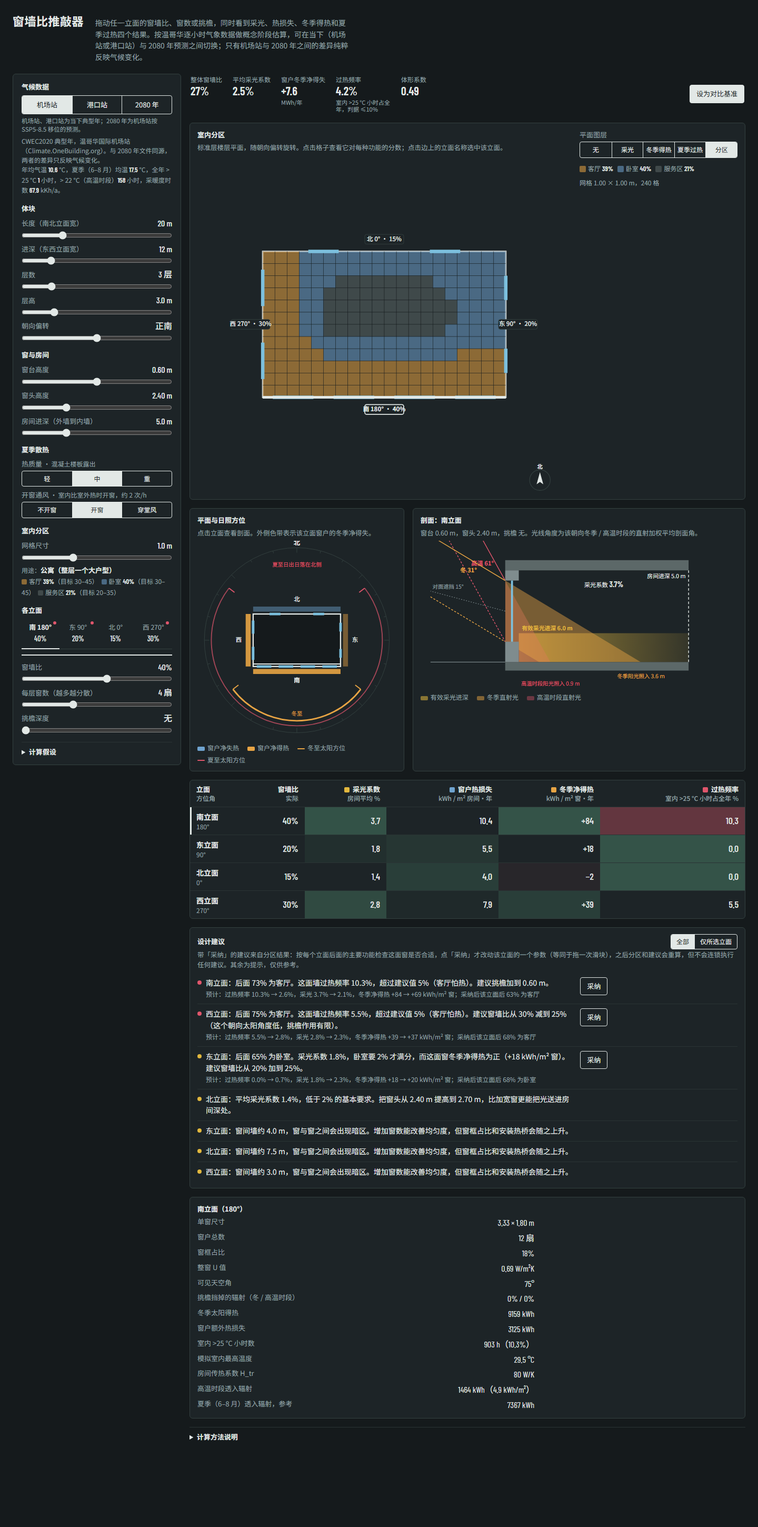
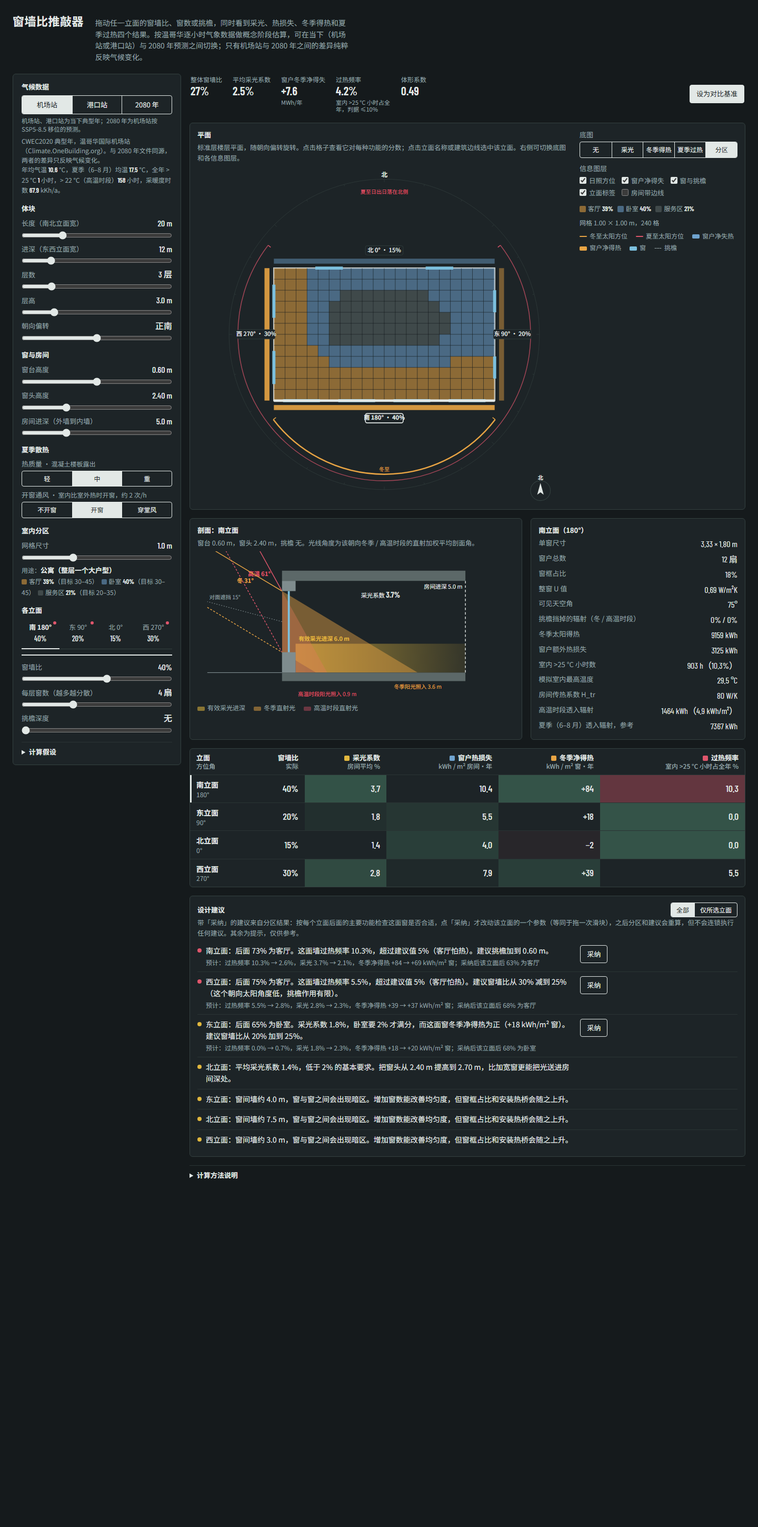
Version_05 round 2: single plan drawing with toggleable info layers
- Merge zoning panel and sun/orientation plan into one metre-based drawing (rotating group + world-frame compass, arcs, labels, north arrow)
- Info layers: sun orientation, net gain bands, windows/overhangs, facade labels, room-strip lines; native checkboxes, remembered in localStorage
- ViewBox padding shrinks when the sun layer is off; section and facade details side by side on wide screens
- 70 self-tests; calc and UI digests unchanged; screenshots refreshed

diff --git a/Passivehouse_Tool/01_Prototypes/Version_05/wwr-tool.html b/Passivehouse_Tool/01_Prototypes/Version_05/wwr-tool.html
@@ -155,9 +155,9 @@ tbody tr:last-child td{border-bottom:none}
 .zone-side .optrow{margin-top:0}
 .zone-side .gridleg{flex-wrap:wrap;margin-top:10px}
 .zone-side .cellbox{margin-top:10px}
-#zonePlan{max-height:640px;margin:0 auto}
-#zonePlan .cell{cursor:pointer}
-#zonePlan .flab{cursor:pointer}
+#plan{max-height:640px;margin:0 auto}
+#plan .cell{cursor:pointer}
+#plan .flab{cursor:pointer}
 /* 4 设计建议：标题行 + 筛选 */
 .sheet-h{display:flex;justify-content:space-between;align-items:center;gap:12px;flex-wrap:wrap}
 .sheet-h h2{margin:0}
@@ -179,6 +179,15 @@ tbody tr:last-child td{border-bottom:none}
 .methods h3{font-size:12.5px;font-weight:700;margin:10px 0 3px;color:var(--ink)}
 .methods .note{margin:0}
 .detail{max-width:640px}
+/* 第二轮：平面图合并 + 信息图层 */
+.chk{border:0;padding:0;margin:10px 0 0;display:flex;flex-wrap:wrap;gap:4px 12px;font-size:12.5px;color:var(--muted)}
+.chk legend{font-size:13px;color:var(--muted);padding:0;margin-bottom:3px}
+.chk label{white-space:nowrap;cursor:pointer}
+.chk input{accent-color:var(--ink);margin:0 5px 0 0;vertical-align:-1px}
+#infoLeg{margin-top:6px}
+#infoLeg:empty{display:none}
+#plan .hit{cursor:pointer}
+@media (min-width:1151px){.drawings{grid-template-columns:minmax(0,1.55fr) minmax(0,1fr)}}   /* 剖面 / 详情两列，窄屏仍单列 */
 </style>
 </head>
 <body>
@@ -215,32 +224,30 @@ tbody tr:last-child td{border-bottom:none}
 
     <section class="sheet zone" id="zoneSheet">
       <div class="zone-main">
-        <h2>室内分区</h2>
-        <p class="cap">标准层楼层平面，随朝向偏转旋转。点击格子查看它对每种功能的分数；点击边上的立面名称选中该立面。</p>
-        <svg id="zonePlan" viewBox="0 0 100 100" role="img" aria-label="楼层平面网格与分区"></svg>
+        <h2>平面</h2>
+        <p class="cap">标准层楼层平面，随朝向偏转旋转。点击格子查看它对每种功能的分数；点击立面名称或建筑边线选中该立面。右侧可切换底图和各信息图层。</p>
+        <svg id="plan" viewBox="0 0 100 100" role="img" aria-label="楼层平面：分区、日照方位与立面净得失"></svg>
       </div>
       <div class="zone-side" id="zoneSide">
         <div class="optrow">
-          <label id="layerLabel">平面图层</label>
+          <label id="layerLabel">底图</label>
           <div class="seg small five" role="group" aria-labelledby="layerLabel" id="layerSeg"></div>
         </div>
+        <fieldset class="chk" id="infoLayers">
+          <legend>信息图层</legend>
+          <label><input type="checkbox" data-k="sun">日照方位</label>
+          <label><input type="checkbox" data-k="net">窗户净得失</label>
+          <label><input type="checkbox" data-k="win">窗与挑檐</label>
+          <label><input type="checkbox" data-k="labels">立面标签</label>
+          <label><input type="checkbox" data-k="strip">房间带边线</label>
+        </fieldset>
         <div class="gridleg" id="gridLeg"></div>
+        <div class="legend" id="infoLeg"></div>
         <div class="cellbox" id="cellBox" hidden></div>
       </div>
     </section>
 
     <div class="drawings">
-      <section class="sheet">
-        <h2>平面与日照方位</h2>
-        <p class="cap">点击立面查看剖面。外侧色带表示该立面窗户的冬季净得失。</p>
-        <svg id="plan" viewBox="-200 -200 400 400" role="img" aria-label="建筑平面与冬夏太阳方位"></svg>
-        <div class="legend">
-          <span><i style="background:var(--cold)"></i>窗户净失热</span>
-          <span><i style="background:var(--sun)"></i>窗户净得热</span>
-          <span><i style="background:none;border-top:2px solid var(--sun);height:0"></i>冬至太阳方位</span>
-          <span><i style="background:none;border-top:2px solid var(--heat);height:0"></i>夏至太阳方位</span>
-        </div>
-      </section>
       <section class="sheet">
         <h2 id="secTitle">剖面</h2>
         <p class="cap" id="secCap"></p>
@@ -250,6 +257,10 @@ tbody tr:last-child td{border-bottom:none}
           <span><i style="background:var(--sun);opacity:.5"></i>冬季直射光</span>
           <span><i style="background:var(--heat);opacity:.4"></i>高温时段直射光</span>
         </div>
+      </section>
+      <section class="sheet">
+        <h2 id="detTitle">所选立面</h2>
+        <dl class="detail" id="detail"></dl>
       </section>
     </div>
 
@@ -276,11 +287,6 @@ tbody tr:last-child td{border-bottom:none}
       </div>
       <p class="cap">带「采纳」的建议来自分区结果：按每个立面后面的主要功能检查这面窗是否合适，点「采纳」才改动该立面的一个参数（等同于拖一次滑块），之后分区和建议会重算，但不会连锁执行任何建议。其余为提示，仅供参考。</p>
       <ul class="tips advice" id="advice"></ul>
-    </section>
-
-    <section class="sheet">
-      <h2 id="detTitle">所选立面</h2>
-      <dl class="detail" id="detail"></dl>
     </section>
 
     <details class="methods">
@@ -371,6 +377,7 @@ const S={
   clim:'apNow', GtManual:false, mass:'mid', vent:'win',
   grid:1.0, layer:'zone', cell:null, // 室内分区：网格尺寸 m、平面图层（none / DF / Wx / Hx / zone）、所选格子 {i,j}
   tipFilter:'all',                   // 设计建议筛选：all 全部 / sel 仅所选立面（Version_05）
+  info:{sun:true,net:true,win:true,labels:true,strip:false},  // 平面信息图层开关（第二轮）：日照方位 / 净得失 / 窗与挑檐 / 立面标签 / 房间带边线
   L:20, W:12, floors:3, H:3.0, rot:0,
   sill:0.6, head:2.4, depth:5,
   sel:'S',
@@ -613,7 +620,16 @@ function gridSvg(G,s){
     o+=`<rect class="cell" data-idx="${idx}" x="${((c.x-c.gx/2)*s).toFixed(2)}" y="${((c.y-c.gy/2)*s).toFixed(2)}" width="${(c.gx*s).toFixed(2)}" height="${(c.gy*s).toFixed(2)}" fill="${fill}" opacity="${a.toFixed(3)}" stroke="${sel?'var(--ink)':'var(--paper)'}" stroke-width="${sel?2:0.4}" style="cursor:pointer"/>`;});
   return o;
 }
+function updateInfoLegend(){   // 第二轮：只列出打开的信息图层
+  const I=S.info,it=[];
+  if(I.sun){it.push('<span><i style="background:none;border-top:2px solid var(--sun);height:0"></i>冬至太阳方位</span>','<span><i style="background:none;border-top:2px solid var(--heat);height:0"></i>夏至太阳方位</span>');}
+  if(I.net){it.push('<span><i style="background:var(--cold)"></i>窗户净失热</span>','<span><i style="background:var(--sun)"></i>窗户净得热</span>');}
+  if(I.win){it.push('<span><i style="background:var(--glass)"></i>窗</span>','<span><i style="background:none;border-top:1px dashed var(--muted);height:0"></i>挑檐</span>');}
+  if(I.strip){it.push('<span><i style="background:none;border-top:1px dashed var(--ink);height:0"></i>房间带边线（进深 '+f(S.depth,1)+' m）</span>');}
+  document.getElementById('infoLeg').innerHTML=it.join('');
+}
 function updateGridLegend(G){
+  updateInfoLegend();
   const el=document.getElementById('gridLeg'), Lr=LAYERS[S.layer];
   if(!Lr||!Lr.key||!G){el.innerHTML='';return;}
   const tail=`<span>网格 ${f(G.gx,2)} × ${f(G.gy,2)} m，${G.cells.length} 格</span>`;
@@ -634,8 +650,15 @@ function buildZoning(){
   const info=document.createElement('p');info.className='zoneinfo';info.id='zoneInfo';host.appendChild(info);
   // 设计建议筛选（Version_05）
   document.querySelectorAll('#tipFilter button').forEach(b=>b.addEventListener('click',()=>{S.tipFilter=b.dataset.v;render();}));
+  // 信息图层复选框（第二轮）：原生复选框，Tab + 空格可用；状态记在浏览器本地（只记开关，不记参数）
+  loadInfo();
+  document.querySelectorAll('#infoLayers input').forEach(i=>i.addEventListener('change',()=>{S.info[i.dataset.k]=i.checked;saveInfo();render();}));
 }
 function updateTipFilter(){document.querySelectorAll('#tipFilter button').forEach(b=>{const on=b.dataset.v===S.tipFilter;b.classList.toggle('on',on);b.setAttribute('aria-checked',on);b.tabIndex=on?0:-1;});}
+const INFO_KEY='wwr-tool.info.v1';
+function loadInfo(){try{const v=JSON.parse(localStorage.getItem(INFO_KEY)||'null');if(v&&typeof v==='object')Object.keys(S.info).forEach(k=>{if(typeof v[k]==='boolean')S.info[k]=v[k];});}catch(e){}}
+function saveInfo(){try{localStorage.setItem(INFO_KEY,JSON.stringify(S.info));}catch(e){}}
+function updateInfo(){document.querySelectorAll('#infoLayers input').forEach(i=>{i.checked=!!S.info[i.dataset.k];});}
 function updateZoning(){
   document.querySelectorAll('#layerSeg button').forEach(b=>{const on=b.dataset.v===S.layer;b.classList.toggle('on',on);b.setAttribute('aria-pressed',on);});
   const info=document.getElementById('zoneInfo');
@@ -990,73 +1013,66 @@ function renderDetail(R){
 // ---------- Plan ----------
 function netClass(r){if(r.netPer==null)return null;const v=r.netPer;
   if(v<-20)return['var(--cold)',.9];if(v<0)return['var(--cold)',.45];if(v<20)return['var(--sun)',.45];return['var(--sun)',.9];}
+// ---------- 平面（第二轮：一张图 + 信息图层）----------
+// 一个米制坐标系：建筑与方格、窗线、挑檐轮廓、净得失色带、房间带边线、立面点击区都在旋转组里随朝向转；
+// 罗盘环、日照弧线、立面标签（位置随转、文字水平）、指北针在世界坐标系里。每个信息图层按 S.info 开关，关掉就不输出对应元素。
+// viewBox 按打开的图层定留白：日照方位开 3.6 m（放罗盘环与文字），关 2.2 m（图自动放大）。只读 GRID / ZONES / R / S，不做任何计算。
 function renderPlan(R){
-  const svg=document.getElementById('plan');
-  const s=205/Math.hypot(S.L,S.W), w=S.L*s, h=S.W*s;
-  const pt=(a,r)=>[r*Math.sin(rad(a)),-r*Math.cos(rad(a))];
-  const arc=(a1,a2,r)=>{const[x1,y1]=pt(a1,r),[x2,y2]=pt(a2,r);return `M${x1.toFixed(1)},${y1.toFixed(1)} A${r},${r} 0 ${(a2-a1)>180?1:0} 1 ${x2.toFixed(1)},${y2.toFixed(1)}`;};
-  const cosA=Math.sin(rad(23.44))/Math.cos(rad(CL().lat)), aS=Math.acos(clamp(cosA,-1,1))*180/Math.PI, aW=180-aS; // sunrise azimuth at summer / winter solstice
-  let g=`<circle r="186" fill="none" stroke="var(--line)" stroke-width="1"/>`;
-  for(let a=0;a<360;a+=15){const[x1,y1]=pt(a,186),[x2,y2]=pt(a,a%45?181:176);g+=`<line x1="${x1}" y1="${y1}" x2="${x2}" y2="${y2}" stroke="var(--line)"/>`;}
-  g+=`<text x="0" y="-190" text-anchor="middle" font-size="13" font-weight="700" fill="var(--ink)" dy="-2">北</text>`;
-  g+=`<path d="${arc(aS,360-aS,172)}" fill="none" stroke="var(--heat)" stroke-width="2" opacity=".7"/>`;
-  g+=`<path d="${arc(aW,360-aW,162)}" fill="none" stroke="var(--sun)" stroke-width="3"/>`;
-  [[aS,'var(--heat)',172],[360-aS,'var(--heat)',172],[aW,'var(--sun)',162],[360-aW,'var(--sun)',162]].forEach(([a,c,r])=>{const[x,y]=pt(a,r),[x2,y2]=pt(a,r-14);g+=`<line x1="${x}" y1="${y}" x2="${x2}" y2="${y2}" stroke="${c}" stroke-width="2"/>`;});
-  {const[x,y]=pt(180,148);g+=`<text x="${x}" y="${y}" text-anchor="middle" font-size="11" fill="var(--sun)" dy="4">冬至</text>`;
-   const[x2,y2]=pt(0,158);g+=`<text x="${x2}" y="${y2}" text-anchor="middle" font-size="11" fill="var(--heat)" dy="10">夏至日出日落在北侧</text>`;}
-  const E={S:[[-w/2,h/2],[w/2,h/2],[0,1]],N:[[w/2,-h/2],[-w/2,-h/2],[0,-1]],E:[[w/2,h/2],[w/2,-h/2],[1,0]],W:[[-w/2,-h/2],[-w/2,h/2],[-1,0]]};
-  let b=`<rect x="${-w/2}" y="${-h/2}" width="${w}" height="${h}" fill="var(--paper)" stroke="var(--ink)" stroke-width="2.5"/>`;
-  // Version_05：方格图层移到独立的「室内分区」面板（renderZonePlan），这里只保留日照方位与立面净得失
-  const labels=[];
-  KEYS.forEach(k=>{const r=R[k],[p0,p1,nv]=E[k],F=r.F;
-    const L=Math.hypot(p1[0]-p0[0],p1[1]-p0[1]),ux=(p1[0]-p0[0])/L,uy=(p1[1]-p0[1])/L;
-    const ohp=F.oh>0?Math.max(3,F.oh*s):0, b0=ohp+5, b1=b0+10;
-    if(F.oh>0) b+=`<polygon points="${p0[0]},${p0[1]} ${p1[0]},${p1[1]} ${p1[0]+nv[0]*ohp},${p1[1]+nv[1]*ohp} ${p0[0]+nv[0]*ohp},${p0[1]+nv[1]*ohp}" fill="none" stroke="var(--muted)" stroke-dasharray="3 2"/>`;
-    const nc=netClass(r);
-    if(nc) b+=`<polygon points="${p0[0]+nv[0]*b0},${p0[1]+nv[1]*b0} ${p1[0]+nv[0]*b0},${p1[1]+nv[1]*b0} ${p1[0]+nv[0]*b1},${p1[1]+nv[1]*b1} ${p0[0]+nv[0]*b1},${p0[1]+nv[1]*b1}" fill="${nc[0]}" opacity="${nc[1]}"/>`;
-    if(r.has){for(let i=0;i<r.n;i++){const c=(i+.5)/r.n*L,hw=r.wi*s/2*(r.len/r.len);const sx=p0[0]+ux*(c-hw),sy=p0[1]+uy*(c-hw),ex=p0[0]+ux*(c+hw),ey=p0[1]+uy*(c+hw);
-      b+=`<line x1="${sx}" y1="${sy}" x2="${ex}" y2="${ey}" stroke="var(--glass)" stroke-width="5"/>`;}}
-    if(k===S.sel) b+=`<line x1="${p0[0]}" y1="${p0[1]}" x2="${p1[0]}" y2="${p1[1]}" stroke="var(--ink)" stroke-width="2" transform="translate(${-nv[0]*5},${-nv[1]*5})"/>`;
-    // 立面点击区向外偏移 10，留出室内格子的点击空间（Version_03）
-    b+=`<line class="hit" data-k="${k}" tabindex="0" role="button" aria-label="选择${facName(k)}" x1="${p0[0]}" y1="${p0[1]}" x2="${p1[0]}" y2="${p1[1]}" stroke="transparent" stroke-width="26" style="cursor:pointer" transform="translate(${nv[0]*10},${nv[1]*10})"/>`;
-    const mx=(p0[0]+p1[0])/2+nv[0]*(b1+14),my=(p0[1]+p1[1])/2+nv[1]*(b1+14);labels.push([k,mx,my]);
-  });
-  let lab='';const cr=Math.cos(rad(S.rot)),sr=Math.sin(rad(S.rot));
-  labels.forEach(([k,x,y])=>{const X=x*cr-y*sr,Y=x*sr+y*cr;lab+=`<text x="${X}" y="${Y}" text-anchor="middle" dominant-baseline="middle" font-size="12" font-weight="${k===S.sel?700:500}" fill="var(--ink)" pointer-events="none">${dirName(facAz(k))}</text>`;});
-  svg.innerHTML=g+`<g transform="rotate(${S.rot})">${b}</g>`+lab;
-  svg.querySelectorAll('.hit').forEach(el=>{const k=el.getAttribute('data-k');el.addEventListener('click',()=>{S.sel=k;render();});el.addEventListener('keydown',e=>{if(e.key==='Enter'||e.key===' '){e.preventDefault();S.sel=k;render();}});});
-}
-
-// ---------- 室内分区面板（Version_05）----------
-// 独立的大比例楼层平面：建筑随朝向旋转（与日照图一致），viewBox 按对角线留足空间；四边外侧标注立面名称与方位角（可点击选中立面）；
-// 方格着色沿用 gridSvg()；右下角小指北针固定朝上（建筑转、北不转）。只读 GRID / ZONES / S，不做任何计算。
-function renderZonePlan(R){
-  const svg=document.getElementById('zonePlan'); if(!GRID){svg.innerHTML='';return;}
-  const diag=Math.hypot(S.L,S.W), pad=2.2, V=diag+2*pad, s=1;   // 单位：m
+  const svg=document.getElementById('plan'); if(!GRID){svg.innerHTML='';return;}
+  const I=S.info, w=S.L, h=S.W, R0=Math.hypot(w,h)/2;
+  const pad=I.sun?3.6:2.2, V=2*(R0+pad);
   svg.setAttribute('viewBox',`${(-V/2).toFixed(2)} ${(-V/2).toFixed(2)} ${V.toFixed(2)} ${V.toFixed(2)}`);
-  const w=S.L, h=S.W;
+  const pxPerM=(svg.clientWidth||700)/V, fs=Math.max(0.5,12/pxPerM);   // 文字约 12 px
+  const pt=(a,r)=>[r*Math.sin(rad(a)),-r*Math.cos(rad(a))];
+  const n2=x=>x.toFixed(2);
+  // ---- 世界坐标：日照方位 ----
+  let g='';
+  if(I.sun){
+    const arc=(a1,a2,r)=>{const[x1,y1]=pt(a1,r),[x2,y2]=pt(a2,r);return `M${n2(x1)},${n2(y1)} A${n2(r)},${n2(r)} 0 ${(a2-a1)>180?1:0} 1 ${n2(x2)},${n2(y2)}`;};
+    const cosA=Math.sin(rad(23.44))/Math.cos(rad(CL().lat)), aS=Math.acos(clamp(cosA,-1,1))*180/Math.PI, aW=180-aS; // 夏至 / 冬至日出方位角
+    const rR=R0+2.4, rS=R0+1.6, rW=R0+1.0;
+    g+=`<g class="sun"><circle r="${n2(rR)}" fill="none" stroke="var(--line)" stroke-width="${n2(fs*0.06)}"/>`;
+    for(let a=0;a<360;a+=15){const[x1,y1]=pt(a,rR),[x2,y2]=pt(a,rR-(a%45?0.3:0.5)*fs);g+=`<line x1="${n2(x1)}" y1="${n2(y1)}" x2="${n2(x2)}" y2="${n2(y2)}" stroke="var(--line)" stroke-width="${n2(fs*0.06)}"/>`;}
+    g+=`<text x="0" y="${n2(-rR-fs*0.35)}" text-anchor="middle" font-size="${n2(fs*1.05)}" font-weight="700" fill="var(--ink)">北</text>`;
+    g+=`<path d="${arc(aS,360-aS,rS)}" fill="none" stroke="var(--heat)" stroke-width="${n2(fs*0.14)}" opacity=".7"/>`;
+    g+=`<path d="${arc(aW,360-aW,rW)}" fill="none" stroke="var(--sun)" stroke-width="${n2(fs*0.22)}"/>`;
+    [[aS,'var(--heat)',rS],[360-aS,'var(--heat)',rS],[aW,'var(--sun)',rW],[360-aW,'var(--sun)',rW]].forEach(([a,c,r])=>{const[x,y]=pt(a,r),[x2,y2]=pt(a,r-0.55*fs);g+=`<line x1="${n2(x)}" y1="${n2(y)}" x2="${n2(x2)}" y2="${n2(y2)}" stroke="${c}" stroke-width="${n2(fs*0.14)}"/>`;});
+    {const[x,y]=pt(180,rW-0.7*fs);g+=`<text x="${n2(x)}" y="${n2(y)}" text-anchor="middle" dominant-baseline="middle" font-size="${n2(fs*0.9)}" fill="var(--sun)">冬至</text>`;
+     const[x2,y2]=pt(0,rS-0.75*fs);g+=`<text x="${n2(x2)}" y="${n2(y2)}" text-anchor="middle" dominant-baseline="middle" font-size="${n2(fs*0.9)}" fill="var(--heat)">夏至日出日落在北侧</text>`;}
+    g+='</g>';
+  }
+  // ---- 旋转组：建筑、方格、房间带边线、挑檐轮廓、净得失色带、窗线、所选立面、点击区 ----
   let b=`<rect x="${-w/2}" y="${-h/2}" width="${w}" height="${h}" fill="var(--panel)" stroke="var(--ink)" stroke-width="0.12"/>`;
-  b+=gridSvg(GRID,s).replace(/stroke-width="[^"]*"/g,m=>m.replace(/[\d.]+/,x=>(+x*0.06).toFixed(3)));
-  // 窗线（与日照图相同的几何）
+  b+=gridSvg(GRID,1).replace(/stroke-width="[^"]*"/g,m=>m.replace(/[\d.]+/,x=>(+x*0.06).toFixed(3)));
+  if(I.strip){const D=S.depth,sw=n2(fs*0.07);b+='<g class="strip">';
+    if(D<h)b+=`<line x1="${-w/2}" y1="${n2(h/2-D)}" x2="${w/2}" y2="${n2(h/2-D)}" stroke="var(--ink)" stroke-width="${sw}" stroke-dasharray="0.5 0.35" opacity=".8"/><line x1="${-w/2}" y1="${n2(-h/2+D)}" x2="${w/2}" y2="${n2(-h/2+D)}" stroke="var(--ink)" stroke-width="${sw}" stroke-dasharray="0.5 0.35" opacity=".8"/>`;
+    if(D<w)b+=`<line x1="${n2(w/2-D)}" y1="${-h/2}" x2="${n2(w/2-D)}" y2="${h/2}" stroke="var(--ink)" stroke-width="${sw}" stroke-dasharray="0.5 0.35" opacity=".8"/><line x1="${n2(-w/2+D)}" y1="${-h/2}" x2="${n2(-w/2+D)}" y2="${h/2}" stroke="var(--ink)" stroke-width="${sw}" stroke-dasharray="0.5 0.35" opacity=".8"/>`;
+    b+='</g>';}
   const E={S:[[-w/2,h/2],[w/2,h/2],[0,1]],N:[[w/2,-h/2],[-w/2,-h/2],[0,-1]],E:[[w/2,h/2],[w/2,-h/2],[1,0]],W:[[-w/2,-h/2],[-w/2,h/2],[-1,0]]};
   const labels=[];
-  KEYS.forEach(k=>{const r=R[k],[p0,p1,nv]=E[k];const L=Math.hypot(p1[0]-p0[0],p1[1]-p0[1]),ux=(p1[0]-p0[0])/L,uy=(p1[1]-p0[1])/L;
-    if(r.has){for(let i=0;i<r.n;i++){const c=(i+.5)/r.n*L,hw=r.wi/2;const sx=p0[0]+ux*(c-hw),sy=p0[1]+uy*(c-hw),ex=p0[0]+ux*(c+hw),ey=p0[1]+uy*(c+hw);
-      b+=`<line x1="${sx.toFixed(2)}" y1="${sy.toFixed(2)}" x2="${ex.toFixed(2)}" y2="${ey.toFixed(2)}" stroke="var(--glass)" stroke-width="0.28"/>`;}}
+  KEYS.forEach(k=>{const r=R[k],[p0,p1,nv]=E[k],F=r.F;const L=Math.hypot(p1[0]-p0[0],p1[1]-p0[1]),ux=(p1[0]-p0[0])/L,uy=(p1[1]-p0[1])/L;
+    const ohp=F.oh>0?F.oh:0, b0=ohp+0.4, b1=b0+0.45;
+    if(I.win&&F.oh>0) b+=`<polygon class="win" points="${n2(p0[0])},${n2(p0[1])} ${n2(p1[0])},${n2(p1[1])} ${n2(p1[0]+nv[0]*ohp)},${n2(p1[1]+nv[1]*ohp)} ${n2(p0[0]+nv[0]*ohp)},${n2(p0[1]+nv[1]*ohp)}" fill="none" stroke="var(--muted)" stroke-width="${n2(fs*0.06)}" stroke-dasharray="0.3 0.2"/>`;
+    const nc=netClass(r);
+    if(I.net&&nc) b+=`<polygon class="net" points="${n2(p0[0]+nv[0]*b0)},${n2(p0[1]+nv[1]*b0)} ${n2(p1[0]+nv[0]*b0)},${n2(p1[1]+nv[1]*b0)} ${n2(p1[0]+nv[0]*b1)},${n2(p1[1]+nv[1]*b1)} ${n2(p0[0]+nv[0]*b1)},${n2(p0[1]+nv[1]*b1)}" fill="${nc[0]}" opacity="${nc[1]}"/>`;
+    if(I.win&&r.has){for(let i=0;i<r.n;i++){const c=(i+.5)/r.n*L,hw=r.wi/2;const sx=p0[0]+ux*(c-hw),sy=p0[1]+uy*(c-hw),ex=p0[0]+ux*(c+hw),ey=p0[1]+uy*(c+hw);
+      b+=`<line class="win" x1="${n2(sx)}" y1="${n2(sy)}" x2="${n2(ex)}" y2="${n2(ey)}" stroke="var(--glass)" stroke-width="0.28"/>`;}}
     if(k===S.sel) b+=`<line x1="${p0[0]}" y1="${p0[1]}" x2="${p1[0]}" y2="${p1[1]}" stroke="var(--ink)" stroke-width="0.22"/>`;
-    labels.push([k,(p0[0]+p1[0])/2+nv[0]*1.0,(p0[1]+p1[1])/2+nv[1]*1.0]);
+    // 立面点击区：建筑边线外 0–1.2 m 的透明带（不占室内格子）
+    b+=`<line class="hit" data-k="${k}" tabindex="0" role="button" aria-label="选择${facName(k)}" x1="${p0[0]}" y1="${p0[1]}" x2="${p1[0]}" y2="${p1[1]}" stroke="transparent" stroke-width="1.2" transform="translate(${n2(nv[0]*0.6)},${n2(nv[1]*0.6)})"/>`;
+    labels.push([k,(p0[0]+p1[0])/2+nv[0]*(I.net?1.6:1.0),(p0[1]+p1[1])/2+nv[1]*(I.net?1.6:1.0)]);
   });
-  // 立面标签：随建筑旋转定位，但文字保持水平。字号按面板实际像素宽度换算，保证约 12 px（手机上不会缩成小字）
-  const pxPerM=(svg.clientWidth||700)/V, fs=Math.max(0.5,12/pxPerM), lw=fs*6.4, lh=fs*1.6;
-  let lab='';const cr=Math.cos(rad(S.rot)),sr=Math.sin(rad(S.rot));
-  labels.forEach(([k,x,y])=>{const X=x*cr-y*sr,Y=x*sr+y*cr,on=k===S.sel;
-    lab+=`<g class="flab" data-k="${k}" tabindex="0" role="button" aria-label="选择${facName(k)}"><rect x="${(X-lw/2).toFixed(2)}" y="${(Y-lh/2).toFixed(2)}" width="${lw.toFixed(2)}" height="${lh.toFixed(2)}" rx="${(fs*0.3).toFixed(2)}" fill="var(--panel)" stroke="${on?'var(--ink)':'var(--line)'}" stroke-width="${(on?0.15:0.08)*fs}"/><text x="${X.toFixed(2)}" y="${Y.toFixed(2)}" text-anchor="middle" dominant-baseline="middle" font-size="${fs.toFixed(2)}" font-weight="${on?700:500}" fill="var(--ink)">${dirName(facAz(k))} ${Math.round(facAz(k))}° · ${Math.round(S.f[k].wwr*100)}%</text></g>`;});
-  // 指北针（固定朝上，建筑转、北不转）
+  // ---- 世界坐标：立面标签（位置随转，文字水平）----
+  let lab='';
+  if(I.labels){const cr=Math.cos(rad(S.rot)),sr=Math.sin(rad(S.rot)),lw=fs*6.4,lh=fs*1.6;
+    labels.forEach(([k,x,y])=>{const X=x*cr-y*sr,Y=x*sr+y*cr,on=k===S.sel;
+      lab+=`<g class="flab" data-k="${k}" tabindex="0" role="button" aria-label="选择${facName(k)}"><rect x="${n2(X-lw/2)}" y="${n2(Y-lh/2)}" width="${n2(lw)}" height="${n2(lh)}" rx="${n2(fs*0.3)}" fill="var(--panel)" stroke="${on?'var(--ink)':'var(--line)'}" stroke-width="${n2((on?0.15:0.08)*fs)}"/><text x="${n2(X)}" y="${n2(Y)}" text-anchor="middle" dominant-baseline="middle" font-size="${n2(fs)}" font-weight="${on?700:500}" fill="var(--ink)">${dirName(facAz(k))} ${Math.round(facAz(k))}° · ${Math.round(S.f[k].wwr*100)}%</text></g>`;});}
+  // ---- 指北针（始终显示，固定朝上）----
   const nr=fs*1.7, nx=V/2-nr-0.2, ny=V/2-nr-0.2;
-  const north=`<g transform="translate(${nx.toFixed(2)},${ny.toFixed(2)}) scale(${fs.toFixed(2)})"><circle r="1.7" fill="var(--panel)" stroke="var(--line)" stroke-width="0.1"/><path d="M0,-1.3 L0.55,0.7 L0,0.3 L-0.55,0.7 Z" fill="var(--ink)"/><text x="0" y="-1.85" text-anchor="middle" font-size="0.9" font-weight="700" fill="var(--ink)">北</text></g>`;
-  svg.innerHTML=`<g transform="rotate(${S.rot})">${b}</g>${lab}${north}`;
+  const north=`<g class="north" transform="translate(${n2(nx)},${n2(ny)}) scale(${n2(fs)})"><circle r="1.7" fill="var(--panel)" stroke="var(--line)" stroke-width="0.1"/><path d="M0,-1.3 L0.55,0.7 L0,0.3 L-0.55,0.7 Z" fill="var(--ink)"/><text x="0" y="-1.85" text-anchor="middle" font-size="0.9" font-weight="700" fill="var(--ink)">北</text></g>`;
+  svg.innerHTML=g+`<g transform="rotate(${S.rot})">${b}</g>`+lab+north;
   svg.querySelectorAll('.cell').forEach(el=>el.addEventListener('click',()=>{const c=GRID.cells[+el.dataset.idx];S.cell=(S.cell&&S.cell.i===c.i&&S.cell.j===c.j)?null:{i:c.i,j:c.j};render();}));
-  svg.querySelectorAll('.flab').forEach(el=>{const k=el.getAttribute('data-k');el.addEventListener('click',()=>{S.sel=k;render();});el.addEventListener('keydown',e=>{if(e.key==='Enter'||e.key===' '){e.preventDefault();S.sel=k;render();}});});
+  svg.querySelectorAll('.flab,.hit').forEach(el=>{const k=el.getAttribute('data-k');el.addEventListener('click',()=>{S.sel=k;render();});el.addEventListener('keydown',e=>{if(e.key==='Enter'||e.key===' '){e.preventDefault();S.sel=k;render();}});});
 }
 
 // ---------- Section ----------
@@ -1139,8 +1155,8 @@ function render(){
   const R=calcAll();
   GRID=gridConditions(R);   // 室内分区：只读 R，不改 R
   ZONES=CFG?assignZones(GRID,CFG):null;
-  // Version_05：renderTips 只返回条目，由 renderAdvice 合并；renderZonePlan 画独立分区面板；renderFacs 更新标签页（需在 renderAdvice 之后，用到 ADVICE）
-  updateClim();updateCool();updateZoning();updateTipFilter();renderSummary(R);renderZonePlan(R);renderPlan(R);updateGridLegend(GRID);renderCell();renderSection(R);renderTable(R);renderAdvice(R);renderDetail(R);renderFacs(R);
+  // Version_05：renderTips 只返回条目，由 renderAdvice 合并；renderPlan 画合并后的平面（第二轮）；renderFacs 更新标签页（需在 renderAdvice 之后，用到 ADVICE）
+  updateClim();updateCool();updateZoning();updateTipFilter();updateInfo();renderSummary(R);renderPlan(R);updateGridLegend(GRID);renderCell();renderSection(R);renderTable(R);renderAdvice(R);renderDetail(R);renderFacs(R);
 }
 buildClim();buildCool();buildZoning();
 render();
@@ -1249,12 +1265,12 @@ window.wwrSelfTest=function(){
   {
     const save={sel:S.sel,rot:S.rot,f:JSON.parse(JSON.stringify(S.f)),filter:S.tipFilter};
     const state=()=>{const tab=document.querySelector('#facTabs [aria-selected="true"]');const row=[...document.querySelectorAll('#tbody tr')].findIndex(tr=>tr.classList.contains('sel'));
-      return {tab:tab?tab.id.slice(4):null,row:row>=0?KEYS[row]:null,det:document.getElementById('detTitle').textContent,sec:document.getElementById('secTitle').textContent,plan:(document.querySelector('#zonePlan .flab rect[stroke="var(--ink)"]')||{}).parentNode};};
-    const consistent=k=>{const s=state();const pl=document.querySelector(`#zonePlan .flab[data-k="${k}"] rect`);return S.sel===k&&s.tab===k&&s.row===k&&s.det.startsWith(facName(k))&&s.sec.includes(facName(k))&&pl&&pl.getAttribute('stroke')==='var(--ink)';};
+      return {tab:tab?tab.id.slice(4):null,row:row>=0?KEYS[row]:null,det:document.getElementById('detTitle').textContent,sec:document.getElementById('secTitle').textContent,plan:(document.querySelector('#plan .flab rect[stroke="var(--ink)"]')||{}).parentNode};};
+    const consistent=k=>{const s=state();const pl=document.querySelector(`#plan .flab[data-k="${k}"] rect`);return S.sel===k&&s.tab===k&&s.row===k&&s.det.startsWith(facName(k))&&s.sec.includes(facName(k))&&pl&&pl.getAttribute('stroke')==='var(--ink)';};
     facTabs.E.click(); eq('点标签 E → 四处一致',consistent('E')?1:0,1);
     document.querySelector('#plan .hit[data-k="W"]').dispatchEvent(new MouseEvent('click',{bubbles:true})); eq('点日照图 W 边 → 四处一致',consistent('W')?1:0,1);
     document.querySelectorAll('#tbody tr')[KEYS.indexOf('N')].click(); eq('点表格 N 行 → 四处一致',consistent('N')?1:0,1);
-    document.querySelector('#zonePlan .flab[data-k="S"]').dispatchEvent(new MouseEvent('click',{bubbles:true})); eq('点分区面板 S 标签 → 四处一致',consistent('S')?1:0,1);
+    document.querySelector('#plan .flab[data-k="S"]').dispatchEvent(new MouseEvent('click',{bubbles:true})); eq('点分区面板 S 标签 → 四处一致',consistent('S')?1:0,1);
     facTabs.S.dispatchEvent(new KeyboardEvent('keydown',{key:'ArrowRight',bubbles:true})); eq('键盘 → 从 S 切到 E',S.sel==='E'?1:0,1);
     facTabs.E.dispatchEvent(new KeyboardEvent('keydown',{key:'Home',bubbles:true})); eq('键盘 Home 切到 S',S.sel==='S'?1:0,1);
     S.rot=90; render(); eq('偏转 90°：S 标签名为「西 270°」',facTabs.S.querySelector('.t-name').textContent==='西 270°'?1:0,1); S.rot=save.rot; render();
@@ -1271,6 +1287,21 @@ window.wwrSelfTest=function(){
     S.tipFilter='sel';S.sel='N';render();const bad=[...document.querySelectorAll('#advice li')].some(li=>li.dataset.k&&li.dataset.k!=='N');eq('筛选「仅所选立面」只剩该立面与全局条目',bad?0:1,1);
     S.tipFilter=save.filter;S.sel=save.sel;render();
     eq('页面无横向滚动',document.documentElement.scrollWidth<=window.innerWidth+1?1:0,1);
+    // ---- 第二轮：信息图层 ----
+    const saveI=Object.assign({},S.info), vb=()=>+document.getElementById('plan').getAttribute('viewBox').split(' ')[2];
+    Object.assign(S.info,{sun:true,net:true,win:true,labels:true,strip:true});render();
+    const vbOn=vb(); const has=sel=>document.querySelector('#plan '+sel)!==null;
+    eq('图层全开：日照 / 净得失 / 窗 / 标签 / 房间带元素都在',(has('.sun')&&has('.net')&&has('.win')&&has('.flab')&&has('.strip'))?1:0,1);
+    [['sun','.sun'],['net','.net'],['win','.win'],['labels','.flab'],['strip','.strip']].forEach(([k,sel])=>{S.info[k]=false;render();eq(`关掉 ${k} → ${sel} 消失`,has(sel)?0:1,1);S.info[k]=true;});
+    S.info.sun=false;render();eq('关日照方位 → viewBox 变小（图放大）',vb()<vbOn?1:0,1);
+    Object.assign(S.info,{sun:false,net:false,win:false,labels:false,strip:false});render();
+    eq('全部关掉：只剩方格、指北针、点击区',(has('.cell')&&has('.north')&&has('.hit')&&!has('.sun')&&!has('.net')&&!has('.flab'))?1:0,1);
+    S.info.labels=false;S.info.sun=true;render();document.querySelector('#plan .hit[data-k="E"]').dispatchEvent(new MouseEvent('click',{bubbles:true}));eq('标签关掉时点建筑边线仍可选中立面',S.sel==='E'?1:0,1);
+    let ls=null,storageOK=true;try{localStorage.setItem('__wwr_t','1');localStorage.removeItem('__wwr_t');}catch(e){storageOK=false;}
+    if(storageOK){try{S.info.strip=true;saveInfo();ls=JSON.parse(localStorage.getItem(INFO_KEY));}catch(e){}eq('图层开关写入本地并读回',ls&&ls.strip===true&&ls.net===false?1:0,1);}
+    else console.log('本环境无 localStorage（如 data: 快照），跳过"图层开关写入本地并读回"；页面已按默认开关运行');
+    eq('每个复选框都有 label 包裹',[...document.querySelectorAll('#infoLayers input')].every(i=>i.closest('label'))?1:0,1);
+    Object.assign(S.info,saveI);saveInfo();S.sel=save.sel;render();
   }
   digest();
   uiDigest(()=>TIPS_RAW.map(t=>t.t));

diff --git a/Passivehouse_Tool/01_Prototypes/Version_05/PLAN_v05.md b/Passivehouse_Tool/01_Prototypes/Version_05/PLAN_v05.md
@@ -384,6 +384,27 @@ viewBox 按"当前打开的图层里最外一圈"来定：
 
 ---
 
+## 第二轮实施记录（2026-09-24）
+
+**改动（只改界面）。**
+- 删除「平面与日照方位」面板；「室内分区」面板改名「平面」，SVG id 统一为 `#plan`。`renderZonePlan()` 与旧 `renderPlan()` 合并为新的 `renderPlan()`：一个米制坐标系，旋转组里放建筑、方格、房间带边线、挑檐轮廓、净得失色带、窗线、所选立面、立面点击区（边线外 0–1.2 m 透明带）；世界坐标里放罗盘环、日照弧线与文字、立面标签（位置随转、文字水平）、指北针。罗盘环半径 = 对角线一半 + 2.4 m，夏至弧 + 1.6 m，冬至弧 + 1.0 m；日出方位角计算原样搬用。
+- 右列新增「信息图层」五个原生复选框（日照方位 / 窗户净得失 / 窗与挑檐 / 立面标签 / 房间带边线），状态存 `S.info`，用 `localStorage`（键 `wwr-tool.info.v1`，读写均 try/catch）记忆；图例 `#infoLeg` 只列打开的图层。viewBox 留白按日照方位开关取 3.6 / 2.2 m，关掉后图自动放大。
+- 剖面与「所选立面」详情并排（≥ 1151 px 两列，窄屏单列）。
+- 自检：更新引用 `#plan`，新增 10 项（全开元素齐全、逐个关掉元素消失 ×5、关日照 viewBox 变小、全关只剩方格 / 指北针 / 点击区、标签关掉时点边线仍可选中、复选框有 label；本地记忆一项在有 localStorage 的环境才运行），共 70 项。
+- 修正一处回归：新加的剖面 / 详情两列规则起初覆盖了 ≤ 1150 px 的单列规则，改为 `@media (min-width:1151px)` 后 390 px 恢复堆叠。
+
+**验收结果。**
+
+| 验收项 | 结果 |
+|---|---|
+| 数值不变 | `digest()` 与 `uiDigest()` 与第一轮（即 V04）逐部分哈希相同 |
+| 自检 | 70 项通过（内置浏览器 data: 快照无 localStorage，记忆测试按设计跳过并打印说明；Chrome 打开时会运行） |
+| 图层开关 | 每个图层关掉后对应元素消失；全关只剩方格、指北针、点击区；标签关掉后点建筑边线仍可选中立面 |
+| 自动放大 | 内置浏览器（主区约 640 px）：日照开 19.2 px / 关 21.2 px 每格；1440 px 截图中格子约 22 px |
+| 截图 | `screenshots/v05_1440.png`、`screenshots/v05_390.png` 已更新（深色主题，方法同第一轮） |
+| 手机 | 390 px 下所有区块单列堆叠，无横向滚动 |
+| 键盘 | 复选框为原生控件（Tab + 空格）；立面标签和边线点击区有 `tabindex` 与 Enter / 空格处理 |
+
 ## 7. 已知取舍
 
 - 日照方位打开时格子比 V05 略小（约 21 px 对 23 px），因为要给罗盘环留空。

diff --git a/WORK_LOG.md b/WORK_LOG.md
@@ -228,3 +228,26 @@ Records are appended after each session. Most recent entry is at the bottom.
 **Next session: suggested starting point**
 - Chrome 打开 `Version_05/wwr-tool.html`：试标签页、分区面板、合并后的建议列表；用 Tab + Enter 试图层按钮和「采纳」。
 - 候选方向：办公室配置表；相邻关系；格子键盘操作。
+
+---
+
+## 2026-09-24（session 4；Version_05 第二轮：平面图合并 + 信息图层）
+
+**Completed**
+- 用户验证第一轮通过（采纳按钮键盘可用）。写第二轮方案（合并两张平面图、信息图层可开关），用户要求直接在 V05 做并记入 PLAN_v05.md；方案并入该文件，撤掉临时的 Version_06 文件夹。
+- 实施：「室内分区」与「平面与日照方位」合并为一张米制坐标的「平面」（建筑随朝向旋转；罗盘环、日照弧线、净得失色带、窗与挑檐、立面标签、房间带边线各为信息图层，原生复选框开关，状态记在 localStorage）；关掉日照方位后图自动放大；剖面与所选立面详情并排。自检 70 项；数值与界面文本摘要与 V04 一致；截图更新。
+- 修了两个实施中的回归：状态对象少一个逗号导致整页脚本不加载（用 Edge 无头 `--enable-logging=stderr` 拿到行号）；新的两列规则覆盖窄屏单列规则。
+
+**Key decisions**
+- 一张图、一个坐标系（米），旋转组与世界坐标分层；信息图层关掉即不输出元素，方便自检断言。
+- 记忆只记图层开关，不记任何设计参数；无 localStorage 时静默用默认值。
+
+**Current state**
+- `Version_05/` 为最新可用版本（A+B+C + 两轮界面整理）。待用户在 Chrome 验证第二轮。
+
+**Unresolved**
+- 手机宽度下格子约 10–12 px；朝向偏转 45° 附近立面标签可能靠近罗盘文字。
+
+**Next session: suggested starting point**
+- Chrome 打开 `Version_05/wwr-tool.html`：开关各信息图层，看关掉日照方位后的放大效果，刷新页面确认开关被记住。
+- 候选方向：办公室配置表；相邻关系；格子键盘操作。
